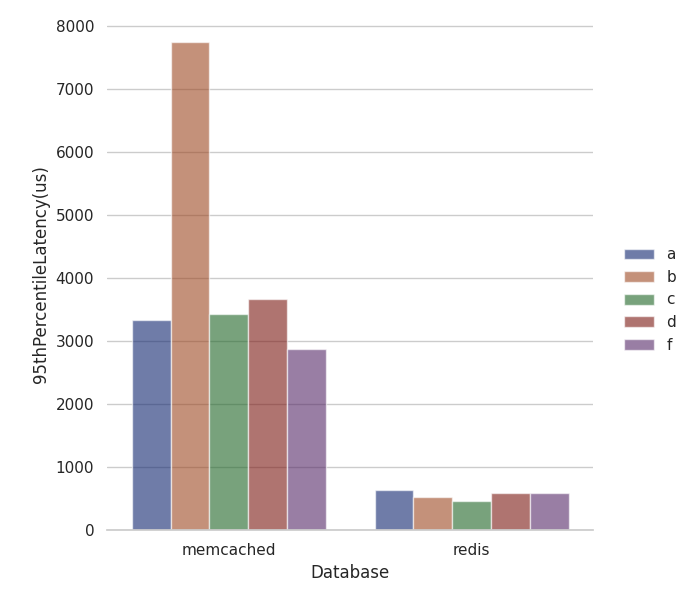
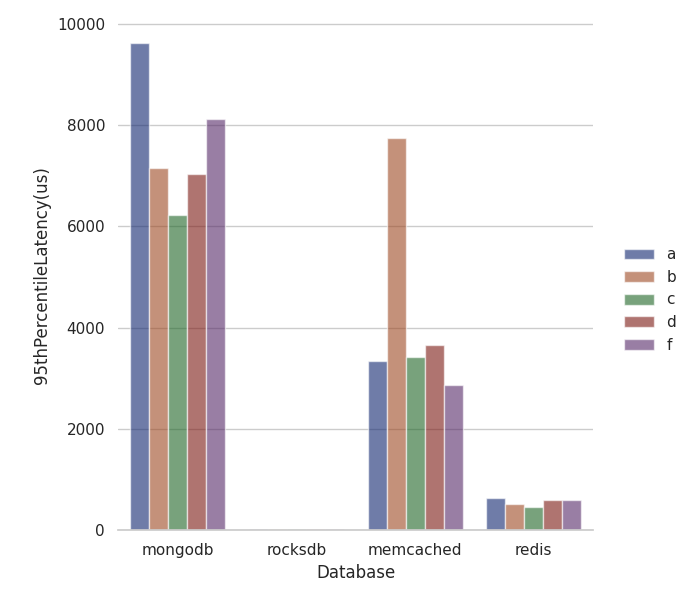
[Pic] Add more pics.

diff --git a/visualize/visual.py b/visualize/visual.py
@@ -73,7 +73,7 @@ def draw(db=None, wl=None, rc=None, cm=False, matric='T', o='v'):
         return
     
     df = pd.DataFrame(data, columns=[
-        'Database', 'Workload', 'Record Count', 'Cluster', 
+        'Database', 'Workload', 'RecordCount', 'Cluster', 
         'Throughput(ops/sec)', 
         'RunTime(ms)', 
         'AverageLatency(us)', 
@@ -84,8 +84,9 @@ def draw(db=None, wl=None, rc=None, cm=False, matric='T', o='v'):
         ])
     print(df)
     
-    y_name = 'Throughput(ops/sec)'
-    if matric == 'R':
+    if matric == 'T':
+        y_name = 'Throughput(ops/sec)'
+    elif matric == 'R':
         y_name = 'RunTime(ms)'
     else:
         # drop workload E
@@ -110,7 +111,7 @@ def draw(db=None, wl=None, rc=None, cm=False, matric='T', o='v'):
             exit(0)
         elif matric == 'LL':
             df = df[df['Cluster'] == 'single'].sort_values(by="Workload")
-            print(df)
+            
             g = sns.lineplot(data=df[['AverageLatency(us)', 
                                       '95thPercentileLatency(us)', 
                                       '99thPercentileLatency(us)']])
@@ -121,6 +122,25 @@ def draw(db=None, wl=None, rc=None, cm=False, matric='T', o='v'):
             # g.set_xlabel(x_name)
             g.set_ylabel(y_name)
             exit(0)
+        elif matric == 'test':
+            df = df[df['Workload'] == 'a']
+            for row in df.iterrows():
+                c = row[1][3]
+                x = ['AverageLatency(us)', '95thPercentileLatency(us)', '99thPercentileLatency(us)']
+                y = [row[1][6], row[1][9], row[1][10]] # row[1][7], row[1][8]]: min, max
+                g = sns.lineplot(x=x, y=y)
+            #     print(x, y)
+            # # print(df)
+            # exit(0)
+            # g = sns.lineplot(data=df,)
+            # x_axis = df['Workload'].values
+            # print('x_axis', x_axis)
+            # g.set_xticks(range(len(x_axis)), x_axis)
+            g.get_figure().savefig(pic_path / (test_name+f'-{matric}.png')) 
+            # g.set_xlabel(x_name)
+            g.set_ylabel(y_name)
+            exit(0)
+            
     
     if cm != '*':
         x_name = 'Database'
@@ -138,12 +158,16 @@ if __name__ == '__main__':
     #
     # import matplotlib
     # print(matplotlib.get_backend())
-    if sys.argv[1] == 'single':
+    if len(sys.argv) < 2 or sys.argv[1] == 'help':
+        print('Usage:') 
+        print('    draw all databases:')
+        print('        [single|cluster] recordcount [T|L|L95|L99|LA|LL]')
+        print('    draw special databases:')
+        print('        [redis|memcached|rocksdb|mongodb] recordcount [T|L|L95|L99|LA|LL] [single|cluster|*]')
+    elif sys.argv[1] == 'single':
         draw(rc=int(sys.argv[2]), cm=sys.argv[1], matric=sys.argv[3])
     elif sys.argv[1] == 'cluster':
         draw(rc=int(sys.argv[2]), cm=sys.argv[1], matric=sys.argv[3])
-    elif sys.argv[1] == 'redis':
-        draw(db='redis', rc=int(sys.argv[2]), matric=sys.argv[3])
     else:
-        print('Usage: [single|cluster|redis|memcached] recordcount [T|L|L95|L99|LA|LL]')
-        
+        a = sys.argv[4] if len(sys.argv) == 5 else None
+        draw(db=sys.argv[1], rc=int(sys.argv[2]), matric=sys.argv[3], cm=a)

diff --git a/visualize/parser.py b/visualize/parser.py
@@ -22,9 +22,8 @@ def parse_result(test_name: str) -> Tuple[Dict, Dict]:
     
     res = {}
     for x in [line.split(',') for line in lines]:
-        if len(x) < 3:
-            print(f'error parsing {test_name}: {x}')
-            return
+        if len(x) != 3:
+            continue
         res[x[0].strip('[] ').lower() + '-' + x[1].strip()] = float(x[2].strip())
     return test_info, res
 
@@ -55,7 +54,7 @@ def parse_all(pattern: str) -> Dict[str, str]:
     return res
 
 if __name__ == '__main__':
-    for name, contant in parse_all("redis-*").items():
+    for name, contant in parse_all("mongodb-*").items():
         print(name)
         print('--------------------')
         print_parse_result(contant)
